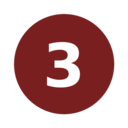
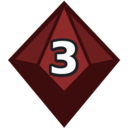
Draw the dice as d10s
Claude-Session: https://claude.ai/code/session_01LGfBjpgcMcq8gYwiwRkpyy

diff --git a/src/ui/diceEmojis.ts b/src/ui/diceEmojis.ts
@@ -4,7 +4,7 @@ import { fileURLToPath } from 'node:url';
 import type { Client } from 'discord.js';
 
 // One application emoji per die value, for normal and Hunger dice, built by
-// scripts/build-dice.sh from the artwork in assets/dice/art: the value is drawn on the face
+// scripts/build-dice.sh as d10 shapes: the value is drawn on the face
 // so it always sits with its die. Hunger faces are files h1.png … h10.png.
 const VALUES = [1, 2, 3, 4, 5, 6, 7, 8, 9, 10];
 const FACES = [...VALUES.map(String), ...VALUES.map((v) => `h${v}`)];

diff --git a/README.md b/README.md
@@ -35,12 +35,12 @@ Esempio: `/elder roll dice:7 difficulty:2 hunger:1 reason:Scalare il muro`. Disc
 
 Sopra il riepilogo del tiro il bot mostra i dadi come icone grandi, dal più alto al più basso, con il numero disegnato su ciascuna. I dadi Fame stanno su una seconda riga, in rosso:
 
-- pallino grigio (rosso scuro per la Fame): da 1 a 5, fallimento;
-- ankh verde (rosso per la Fame): da 6 a 9, successo;
-- ankh acceso: 10, due successi;
-- teschio rosso: 1 su un dado Fame, rischio di Bestial Failure.
+- d10 grigio (rosso scuro per la Fame): da 1 a 5, fallimento;
+- d10 verde (rosso per la Fame): da 6 a 9, successo;
+- d10 verde acceso (rosso acceso per la Fame): 10, due successi;
+- d10 nero con il numero rosso: 1 su un dado Fame, rischio di Bestial Failure.
 
-Le icone sono emoji dell'applicazione: il bot le carica da solo all'avvio e sostituisce quelle vecchie quando cambiano. Con più di 27 dadi, o se le emoji non sono ancora caricate, i dadi compaiono come numeri nei campi **Dadi** e **Hunger**. Le immagini nascono dai disegni in `assets/dice/art`: dopo averli modificati rigenera le facce con `scripts/build-dice.sh` (serve ImageMagick).
+Le icone sono emoji dell'applicazione: il bot le carica da solo all'avvio e sostituisce quelle vecchie quando cambiano. Con più di 27 dadi, o se le emoji non sono ancora caricate, i dadi compaiono come numeri nei campi **Dadi** e **Hunger**. Le facce sono disegnate da `scripts/build-dice.sh` (serve ImageMagick): per cambiare forma o colori modifica lo script e rilancialo.
 
 Lo stato (test prolungati, Masquerade Tracker, Narratore, lingua) è salvato per canale in un file SQLite: un canale corrisponde a un tavolo di gioco. Ogni tavolo ha il suo **Narratore**: chi fa `/elder session new` in un canale che non ne ha ancora uno lo diventa, e può passare il ruolo con `/elder session storyteller user`. `/elder session end` chiude la partita: azzera lo stato del canale e libera il ruolo di Narratore, ma lascia il Masquerade Tracker, che appartiene alla cronaca. Gli amministratori del server (permesso Gestisci server) contano sempre come Narratore, così un tavolo non resta bloccato. Solo il Narratore può usare `/elder session`, modificare il Masquerade Tracker e concedere o rifiutare un Beast's Bargain.
 

diff --git a/docs/GUIDE.md b/docs/GUIDE.md
@@ -44,12 +44,12 @@ If your pool is at least twice the Difficulty, the bot reminds the Storyteller t
 
 Above the roll summary the bot shows each die as an icon with its number, highest first. Hunger dice sit on a second line, in red.
 
-| Icon                        | Die | Meaning                                  |
-| --------------------------- | --- | ---------------------------------------- |
-| Grey dot (dark red: Hunger) | 1–5 | No success                               |
-| Green ankh (red: Hunger)    | 6–9 | Success                                  |
-| Bright ankh                 | 10  | Two successes                            |
-| Red skull                   | 1   | On a Hunger die: risk of Bestial Failure |
+| Icon                                  | Die | Meaning                                  |
+| ------------------------------------- | --- | ---------------------------------------- |
+| Grey d10 (dark red: Hunger)           | 1–5 | No success                               |
+| Green d10 (red: Hunger)               | 6–9 | Success                                  |
+| Bright green d10 (bright red: Hunger) | 10  | Two successes                            |
+| Black d10 with a red number           | 1   | On a Hunger die: risk of Bestial Failure |
 
 The summary below shows the pool, the Difficulty, the successes and the margin. With more than 27 dice the icons are replaced by plain numbers.
 
